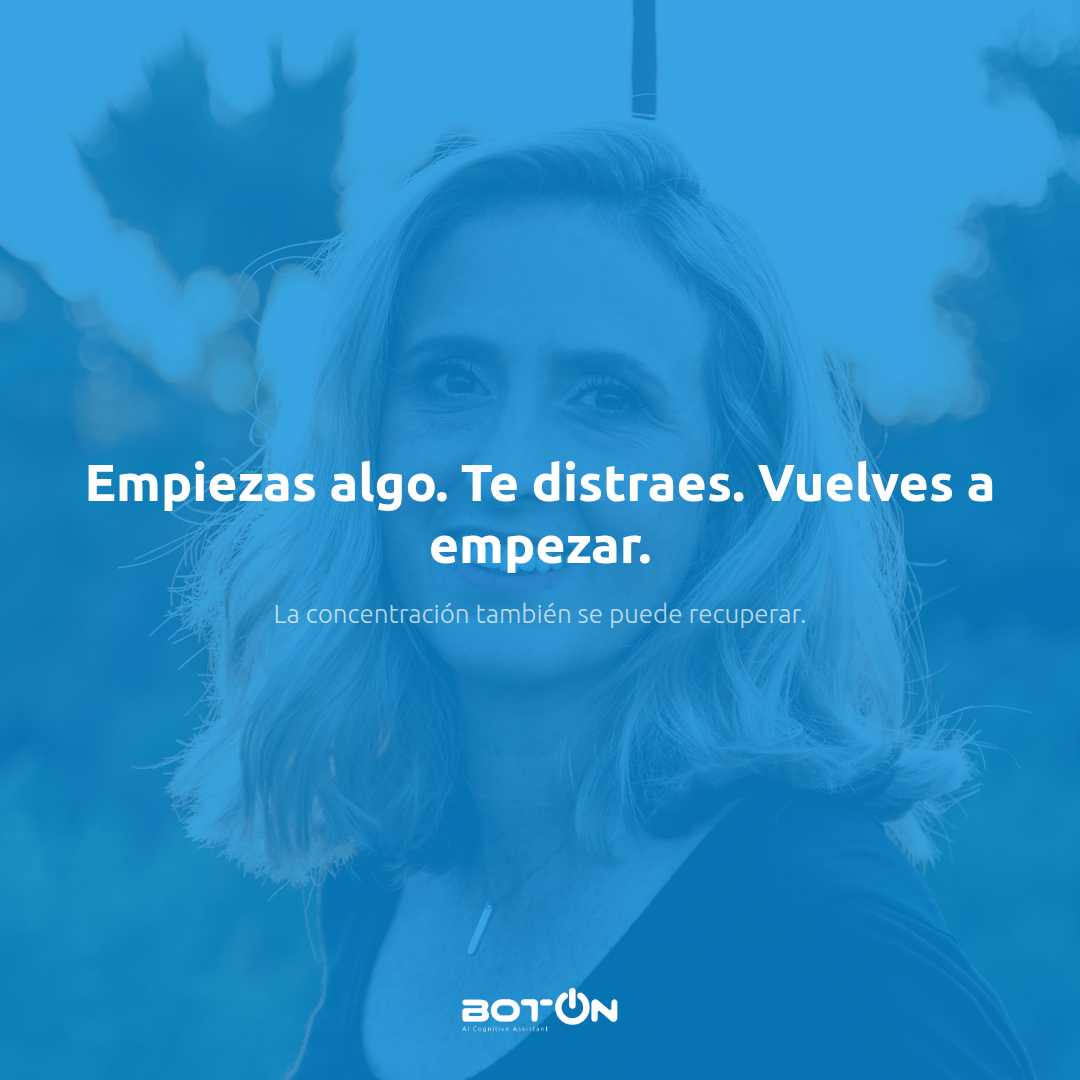
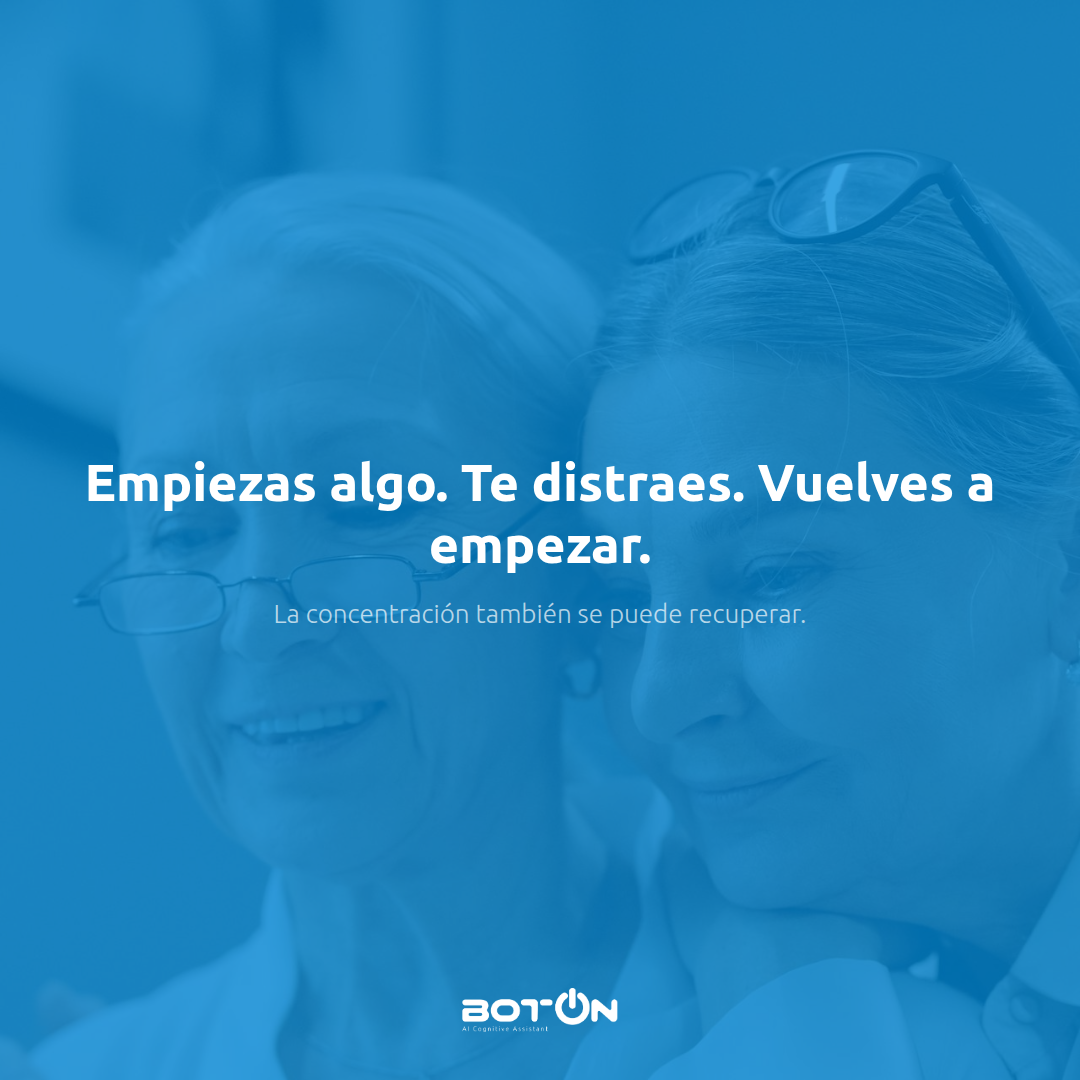
feat: fotos Pexels en diseños finales

diff --git a/capture.js b/capture.js
@@ -22,6 +22,18 @@ const files = [
     const url = `file://${path.resolve(__dirname, file.html)}`;
     await page.goto(url, { waitUntil: 'networkidle0' });
 
+    await page.evaluate((imgPath) => {
+      document.querySelectorAll('*').forEach(el => {
+        const bg = window.getComputedStyle(el).backgroundImage;
+        if (bg.includes('hijo_cuidador.jpg')) {
+          el.style.backgroundImage = `url('${imgPath}/hijo_cuidador.jpg')`;
+        }
+        if (bg.includes('adultomayor.jpg')) {
+          el.style.backgroundImage = `url('${imgPath}/adultomayor.jpg')`;
+        }
+      });
+    }, `file://${__dirname}`);
+
     const canvas = await page.$('.canvas');
     await canvas.screenshot({ path: file.png });
 

diff --git a/semana1-ig-hijocuidador.html b/semana1-ig-hijocuidador.html
@@ -14,7 +14,7 @@ body { font-family: 'Ubuntu', sans-serif; }
   width: 1080px;
   height: 1080px;
   overflow: hidden;
-  background-image: url('https://images.unsplash.com/photo-1529156069898-49953e39b3ac?w=1080&h=1080&q=80&fit=crop&crop=faces');
+  background-image: url('hijo_cuidador.jpg');
   background-size: cover;
   background-position: center top;
   padding: 80px;

diff --git a/semana1-ig-adultomayor-2.html b/semana1-ig-adultomayor-2.html
@@ -14,7 +14,7 @@ body { font-family: 'Ubuntu', sans-serif; }
   width: 1080px;
   height: 1080px;
   overflow: hidden;
-  background-image: url('https://images.unsplash.com/photo-1508214751196-bcfd4ca60f91?w=1080&h=1080&q=80&fit=crop&crop=faces');
+  background-image: url('adultomayor.jpg');
   background-size: cover;
   background-position: center top;
   padding: 80px;
